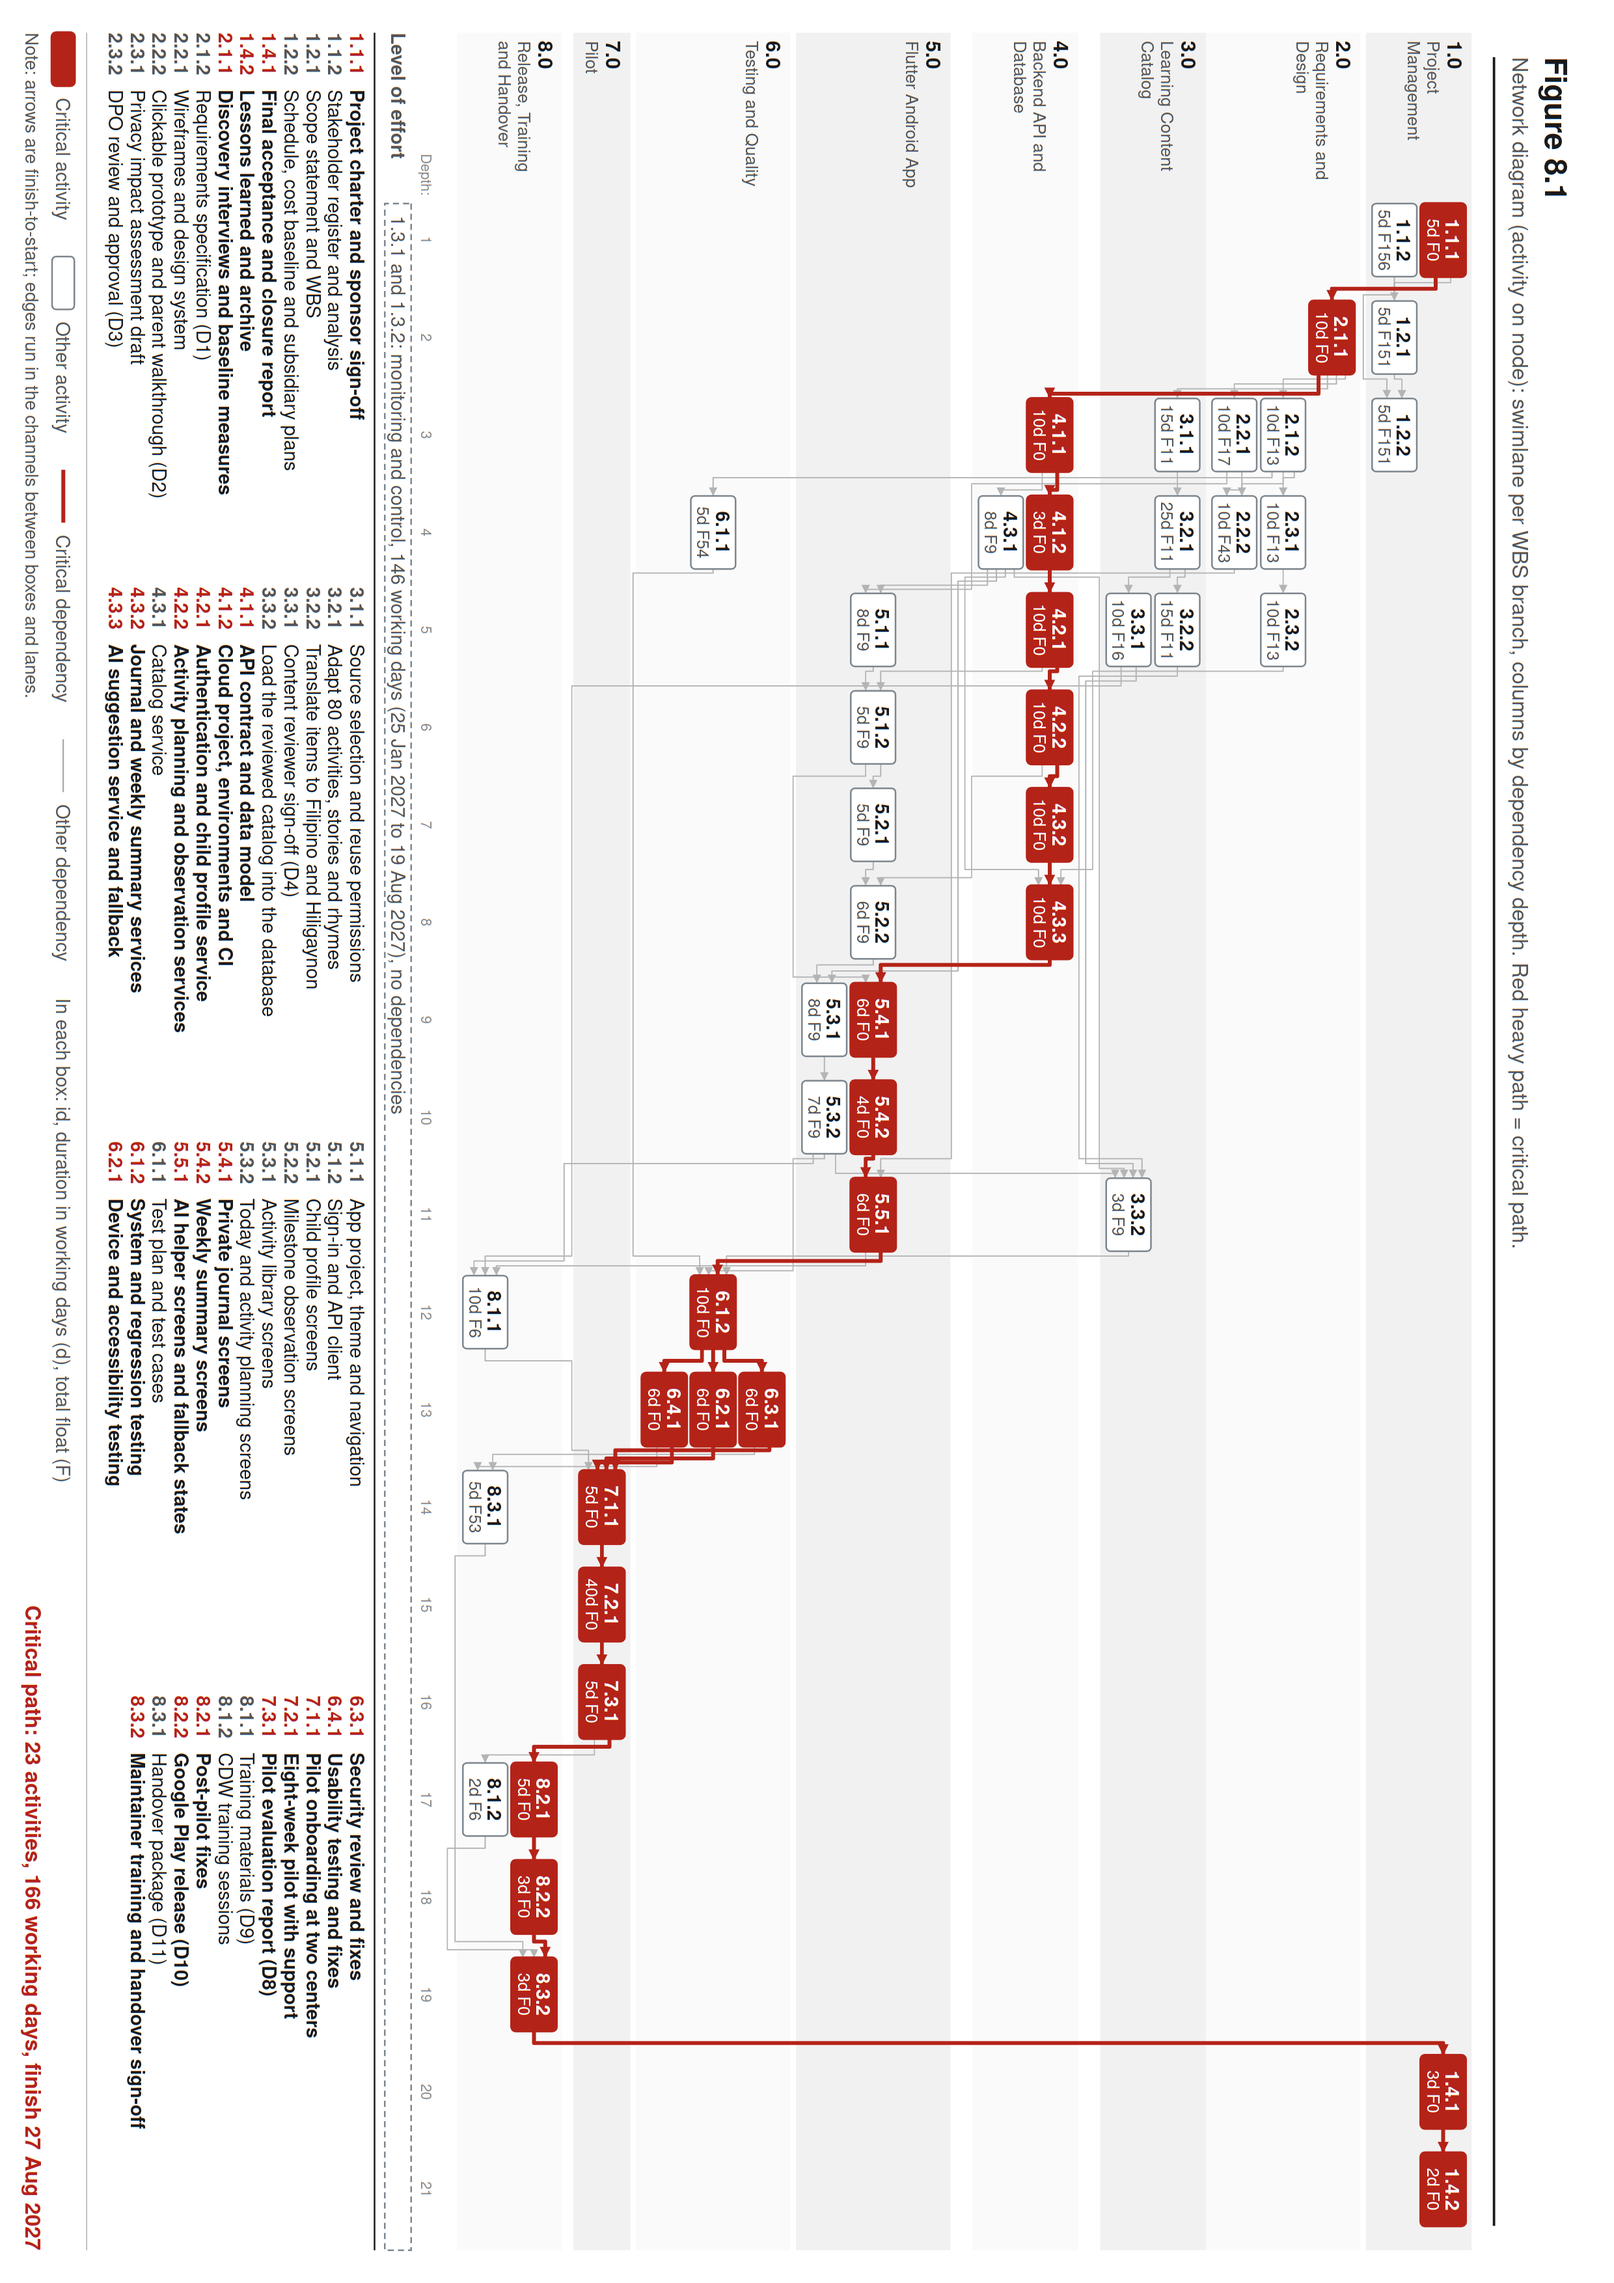
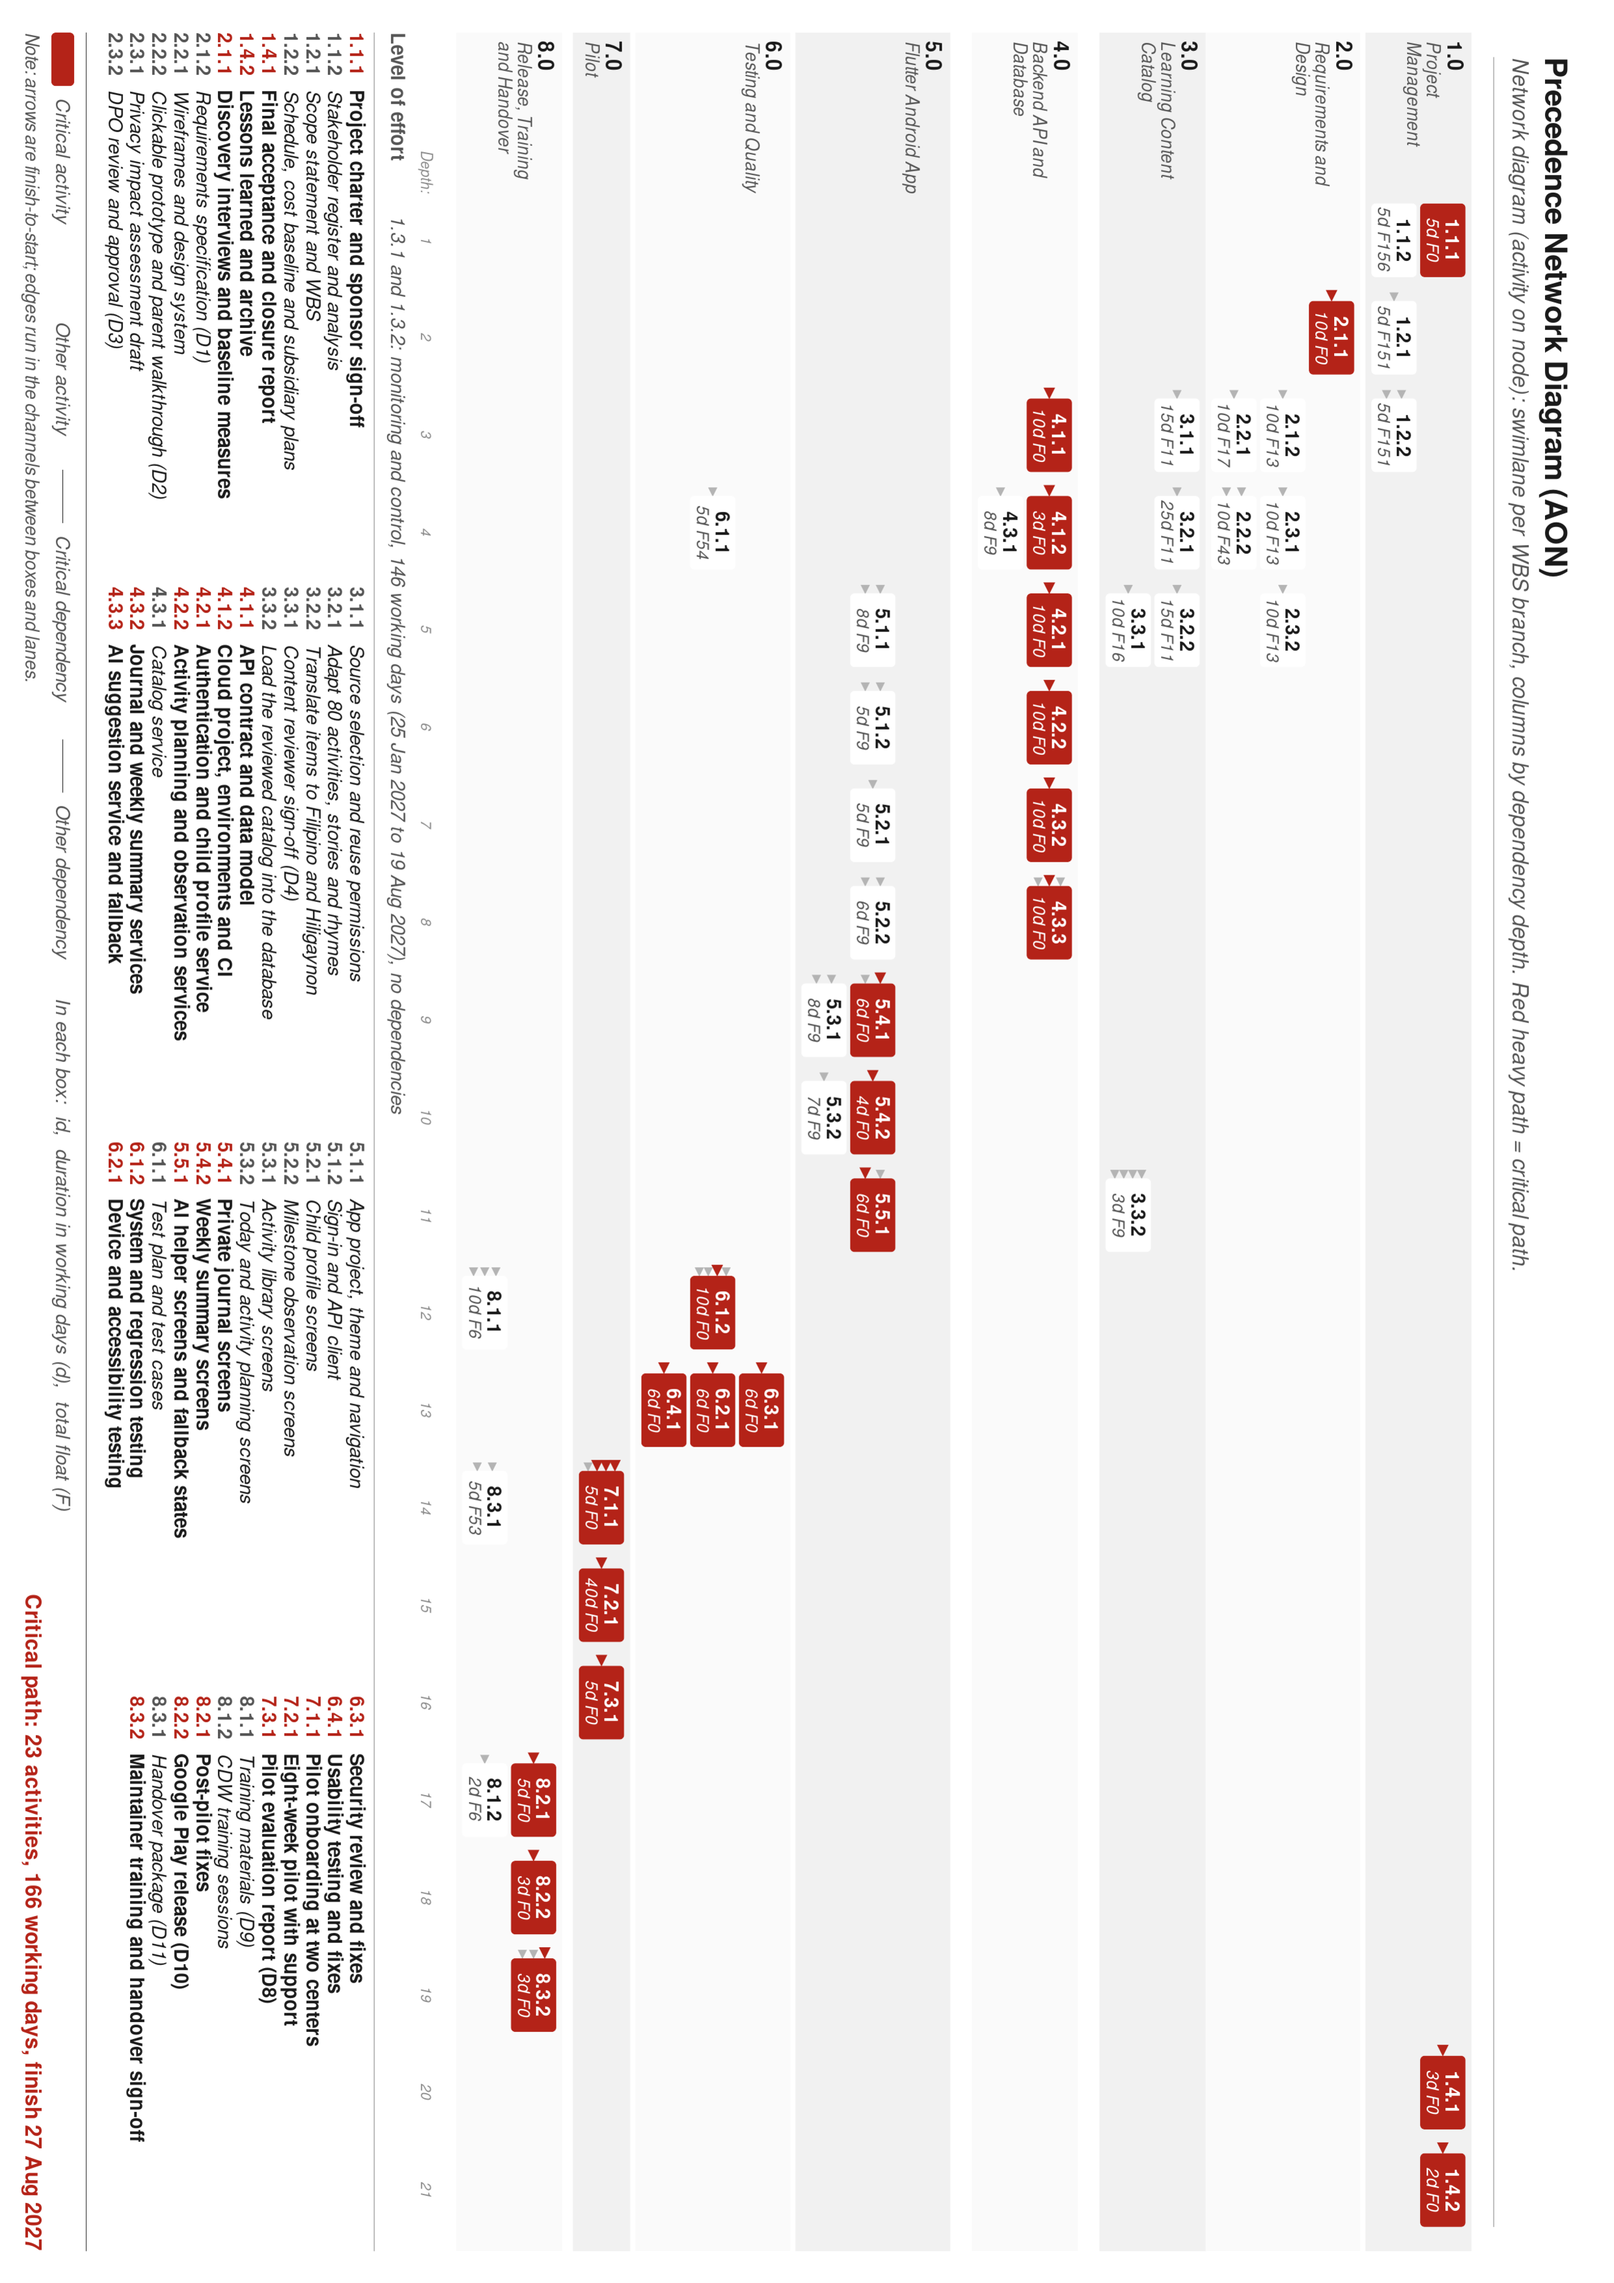
docs(cit246): standardize figure titles and synchronize markdown captions with IEEE/ACM guidelines

diff --git a/docs/academic/cit246/plan/data/make_figures.py b/docs/academic/cit246/plan/data/make_figures.py
@@ -190,7 +190,7 @@ LANE_NAME = {l: f"{l}.0 {LEVELS[l + '.0']}" for l in LANES}
 def fig_wbs():
     W, H = A4W, A4H
     s = Svg(W, H)
-    ty = title(s, "Figure 7.1", "Work breakdown structure to work-package level: project, 8 deliverable branches, "
+    ty = title(s, "Work Breakdown Structure (WBS)", "Work breakdown structure to work-package level: project, 8 deliverable branches, "
                "sub-deliverables and the 49 work packages.", None, W)
     M, GAP, CW = 28, 20, (W - 56 - 20) / 2
     FS, LH = 11, 15.5
@@ -257,7 +257,7 @@ def fig_org():
             if r["Parent"]: (solid if r["Link"] == "solid" else dotted).append((r["Parent"], r["ID"]))
     W = A4W
     s = Svg(W, 100)
-    ty = title(s, "Figure 11.1", "Project organization chart. Solid lines show reporting; dotted lines show "
+    ty = title(s, "Project Organization Chart", "Project organization chart. Solid lines show reporting; dotted lines show "
                "coordination with people outside the project team.", None, W)
     M, FS = 28, 10
     ncol = 6
@@ -337,7 +337,7 @@ def fig_org():
 def fig_gantt():
     W = A4W
     s = Svg(W, A4H)
-    ty = title(s, "Figure 8.2", "Schedule and cost baseline on one time axis: Gantt chart by WBS branch (top) and "
+    ty = title(s, "Schedule and Cost Baseline", "Schedule and cost baseline on one time axis: Gantt chart by WBS branch (top) and "
                "cumulative planned cost against the budget (bottom).", None, W)
     LBL, RM = 28, 28
     X0, X1 = 292, W - RM
@@ -436,7 +436,7 @@ def fig_gantt():
 def fig_network():
     W, H = A4H, A4W  # landscape
     s = Svg(W, H)
-    ty = title(s, "Figure 8.1", "Network diagram (activity on node): swimlane per WBS branch, columns by dependency "
+    ty = title(s, "Precedence Network Diagram (AON)", "Network diagram (activity on node): swimlane per WBS branch, columns by dependency "
                "depth. Red heavy path = critical path.", None, W)
     # --- depth and lanes
     net = [r for r in ROWS if r["float"] is not None]
@@ -637,6 +637,15 @@ def find_chrome():
 
 
 def to_png(svg, png, w, h):
+    for tool in ("magick", "convert"):
+        cmd_path = shutil.which(tool)
+        if cmd_path:
+            cmd = [cmd_path, "-density", "300", svg, "-resize", f"{w}x{h}!", png]
+            try:
+                subprocess.run(cmd, check=True, capture_output=True)
+                return True
+            except Exception as e:
+                pass
     chrome = find_chrome()
     if chrome:
         with tempfile.TemporaryDirectory() as td:
@@ -644,14 +653,13 @@ def to_png(svg, png, w, h):
             with open(html, "w") as f:
                 f.write(f'<html><body style="margin:0"><img src="file://{svg}" '
                         f'style="display:block;width:{w}px;height:{h}px"></body></html>')
-            subprocess.run([chrome, "--no-sandbox", "--hide-scrollbars", "--force-device-scale-factor=1",
-                            f"--window-size={w},{h}", f"--screenshot={png}", "file://" + html],
-                           check=True, capture_output=True)
-        return True
-    cv = shutil.which("convert")
-    if cv:
-        subprocess.run([cv, "-density", "300", svg, "-resize", f"{w}x{h}!", png], check=True)
-        return True
+            try:
+                subprocess.run([chrome, "--no-sandbox", "--hide-scrollbars", "--force-device-scale-factor=1",
+                                f"--window-size={w},{h}", f"--screenshot={png}", "file://" + html],
+                               check=True, capture_output=True)
+                return True
+            except Exception:
+                pass
     print("no browser or ImageMagick: PNG skipped for", svg)
     return False
 
@@ -668,7 +676,16 @@ def main():
         else:
             s.save(svg, (210, 297) if px[0] < px[1] else (297, 210))
         # crop-free: svg viewBox equals the page, so the png matches the page exactly
-        to_png(svg, os.path.join(OUT, name + ".png"), *px)
+        png_path = os.path.join(OUT, name + ".png")
+        to_png(svg, png_path, *px)
+        if name == "fig-8-1-network":
+            try:
+                from PIL import Image
+                im = Image.open(png_path)
+                im.rotate(270, expand=True).save(os.path.join(OUT, "fig-8-1-network-portrait.png"))
+                print("wrote fig-8-1-network-portrait")
+            except Exception as e:
+                print("could not write portrait variant:", e)
         print("wrote", name)
 
 

diff --git a/docs/academic/cit246/plan/08-schedule.md b/docs/academic/cit246/plan/08-schedule.md
@@ -66,9 +66,9 @@ Each activity is a WBS work package; all dates are in 2027. Basis of the duratio
 
 Activity-on-node diagram: each box shows the WBS number and duration, and arrows are finish-to-start dependencies.
 
-![Figure 8.1. Network diagram with the critical path](figures/fig-8-1-network.png)
+![Precedence Network Diagram](figures/fig-8-1-network.png)
 
-*Figure 8.1. Network diagram by WBS branch (rows) and dependency depth (columns). Red boxes and heavy arrows are the critical path; levels of effort 1.3.1 and 1.3.2 are shown as a bar outside the network.*
+*Figure 8.1: Precedence Network Diagram (Activity on Node) — Swimlane network diagram by WBS branch and dependency depth; red indicates critical path.*
 
 **Critical path:** 1.1.1 → 2.1.1 → 4.1.1 → 4.1.2 → 4.2.1 → 4.2.2 → 4.3.2 → 4.3.3 → 5.4.1 → 5.4.2 → 5.5.1 → 6.1.2 → (6.2.1, 6.3.1 and 6.4.1 in parallel) → 7.1.1 → 7.2.1 → 7.3.1 → 8.2.1 → 8.2.2 → 8.3.2 → 1.4.1 → 1.4.2 = 166 working days.
 
@@ -76,9 +76,9 @@ Activity-on-node diagram: each box shows the WBS number and duration, and arrows
 
 ## 8.4 Gantt Chart
 
-![Figure 8.2. Gantt chart and cumulative cost baseline](figures/fig-8-2-gantt-cost.png)
+![Schedule and Cost Baseline](figures/fig-8-2-gantt-cost.png)
 
-*Figure 8.2. Gantt chart (red bars are on the critical path; diamonds are milestones) with the cumulative cost baseline (S-curve) and the budget with contingency on the same time axis.*
+*Figure 8.2: Schedule and Cost Baseline — Gantt chart with critical path and milestones aligned on a unified monthly time axis with cumulative planned cost S-curve and contingency budget.*
 
 ## 8.5 Milestones
 

diff --git a/docs/academic/cit246/plan/07-work-breakdown-structure.md b/docs/academic/cit246/plan/07-work-breakdown-structure.md
@@ -92,9 +92,9 @@ Level 1 is a deliverable branch, level 2 a sub-deliverable and level 3 a work pa
     - 8.3.1 Handover package (D11)
     - 8.3.2 Maintainer training and handover sign-off
 
-![Figure 7.1. Work breakdown structure to work-package level](figures/fig-7-1-wbs.png)
+![Work Breakdown Structure](figures/fig-7-1-wbs.png)
 
-*Figure 7.1. WBS chart: the project, 8 branches, level-2 groups and all 49 work packages.*
+*Figure 7.1: Work Breakdown Structure — Decomposed into 8 branches, level-2 groups, and 49 work packages.*
 
 ## 7.2 WBS Dictionary
 

diff --git a/docs/academic/cit246/plan/11-resource-and-responsibility-plan.md b/docs/academic/cit246/plan/11-resource-and-responsibility-plan.md
@@ -2,9 +2,9 @@
 
 ## 11.1 Project Organizational Chart
 
-![Figure 11.1. Project organization chart](figures/fig-11-1-org-chart.png)
+![Project Organization Chart](figures/fig-11-1-org-chart.png)
 
-*Figure 11.1. Solid lines: reporting. Dotted lines: coordination with people outside the project team.*
+*Figure 11.1: Project Organization Chart — Solid lines indicate direct reporting; dotted lines indicate external coordination.*
 
 ## 11.2 Responsibility Assignment Matrix (RACI)
 
